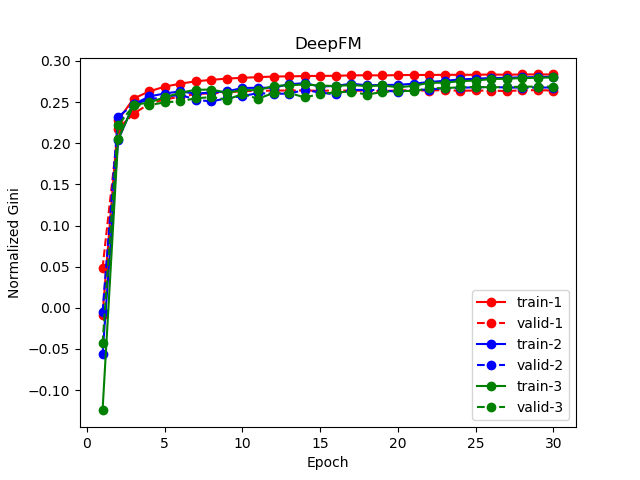
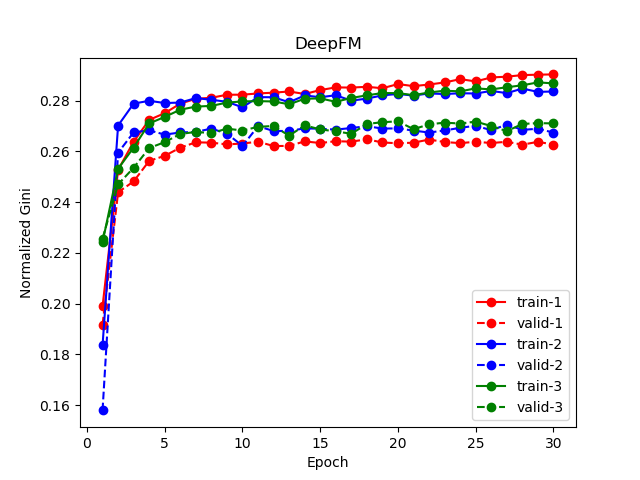
basically completed

diff --git a/example/main.py b/example/main.py
@@ -43,7 +43,7 @@ def _preprocess_data(train_df, test_df):
         le = preprocessing.LabelEncoder()
         all_df[i] = le.fit_transform(all_df[i])
         all_df[i] = all_df[i] + cate_cnt
-        cate_cnt += all_df[i].max() + 1
+        cate_cnt = all_df[i].max() + 1
 
     train_df = all_df[:train_df.shape[0]]
     test_df = all_df[train_df.shape[0]:].reset_index(drop=True)
@@ -74,19 +74,12 @@ def _preprocess_data(train_df, test_df):
 
 
 def _run_base_model_dfm(Xi_train, Xv_train, y_train, Xi_test, Xv_test, ids_test, cate_cnt, folds, dfm_params):
-    # fd = FeatureDictionary(dfTrain=dfTrain, dfTest=dfTest,
-    #                        numeric_cols=config.NUMERIC_COLS,
-    #                        ignore_cols=config.IGNORE_COLS)
-    # data_parser = DataParser(feat_dict=fd)
-    # Xi_train, Xv_train, y_train = data_parser.parse(df=dfTrain, has_label=True)
-    # Xi_test, Xv_test, ids_test = data_parser.parse(df=dfTest)
-
     dfm_params["cate_feature_size"] = cate_cnt
     dfm_params["cate_field_size"] = len(Xi_train[0])
     dfm_params["num_field_size"] = len(Xv_train[0])
 
     y_train_meta = np.zeros((Xi_train.shape[0], 1), dtype=float)
-    y_test_meta = np.zeros((Xi_train.shape[0], 1), dtype=float)
+    y_test_meta = np.zeros((Xi_test.shape[0], 1), dtype=float)
     _get = lambda x, l: [x[i] for i in l]
     gini_results_cv = np.zeros(len(folds), dtype=float)
     gini_results_epoch_train = np.zeros((len(folds), dfm_params["epoch"]), dtype=float)
@@ -109,9 +102,9 @@ def _run_base_model_dfm(Xi_train, Xv_train, y_train, Xi_test, Xv_test, ids_test,
 
     # save result
     if dfm_params["use_cross"] and dfm_params["use_deep"]:
-        clf_str = "DeepFM"
+        clf_str = "DeepAndCross"
     elif dfm_params["use_cross"]:
-        clf_str = "FM"
+        clf_str = "CROSS"
     elif dfm_params["use_deep"]:
         clf_str = "DNN"
     print("%s: %.5f (%.5f)"%(clf_str, gini_results_cv.mean(), gini_results_cv.std()))
@@ -148,20 +141,19 @@ def _plot_fig(train_results, valid_results, model_name):
 
 # load data & preprocess
 train_df, test_df = _load_data()
-train_df, test_df, Xi_train, Xv_train, y_train, Xi_test, Xv_test, ids_test, cat_features_indices, feature_sizes = _preprocess_data(train_df, test_df)
+train_df, test_df, Xi_train, Xv_train, y_train, Xi_test, Xv_test, ids_test, cate_cnt = _preprocess_data(train_df, test_df)
 
 # folds
 folds = list(StratifiedKFold(n_splits=config.NUM_SPLITS, shuffle=True,
                              random_state=config.RANDOM_SEED).split(Xi_train, y_train))
 
 
-# ------------------ DeepFM Model ------------------
+# ------------------ DeepAndCross Model ------------------
 # params
 dfm_params = {
     "use_cross": True,
     "use_deep": True,
     "embedding_size": 8,
-    "dropout_fm": [1.0, 1.0],
     "deep_layers": [32, 32],
     "dropout_deep": [0.5, 0.5, 0.5],
     "deep_layers_activation": tf.nn.relu,
@@ -178,7 +170,7 @@ dfm_params = {
 }
 y_train_dfm, y_test_dfm = _run_base_model_dfm(Xi_train, Xv_train, y_train, Xi_test, Xv_test, ids_test, cate_cnt, folds, dfm_params)
 
-# # ------------------ FM Model ------------------
+# # ------------------ CROSS Model ------------------
 # fm_params = dfm_params.copy()
 # fm_params["use_deep"] = False
 # y_train_fm, y_test_fm = _run_base_model_dfm(dfTrain, dfTest, folds, fm_params)

diff --git a/DCN.py b/DCN.py
@@ -17,7 +17,7 @@ from yellowfin import YFOptimizer
 
 class DCN(BaseEstimator, TransformerMixin):
     def __init__(self, cate_feature_size, cate_field_size, num_field_size,
-                 embedding_size=8, dropout_cross=[1.0, 1.0],
+                 embedding_size=8,
                  cross_layer_num=2,
                  deep_layers=[32, 32], dropout_deep=[0.5, 0.5, 0.5],
                  deep_layers_activation=tf.nn.relu,
@@ -38,7 +38,6 @@ class DCN(BaseEstimator, TransformerMixin):
         self.embedding_size = embedding_size              # denote as K, size of the feature embedding
         self.total_size = self.num_field_size + self.cate_field_size * self.embedding_size
 
-        self.dropout_cross = dropout_cross
         self.deep_layers = deep_layers
         self.dropout_deep = dropout_deep
         self.cross_layer_num = cross_layer_num
@@ -86,7 +85,7 @@ class DCN(BaseEstimator, TransformerMixin):
                                                              self.feat_index)  # None * Cate * K
             self.embeddings = tf.reshape(self.embeddings, shape=[-1, self.cate_field_size * self.embedding_size])
 
-            self.x0 = tf.concat([self.feat_index, self.embeddings], axis=1)
+            self.x0 = tf.concat([self.feat_value, self.embeddings], axis=1)
 
             # ---------- Deep component ----------
             self.y_deep = tf.nn.dropout(self.x0, self.dropout_keep_deep[0])
